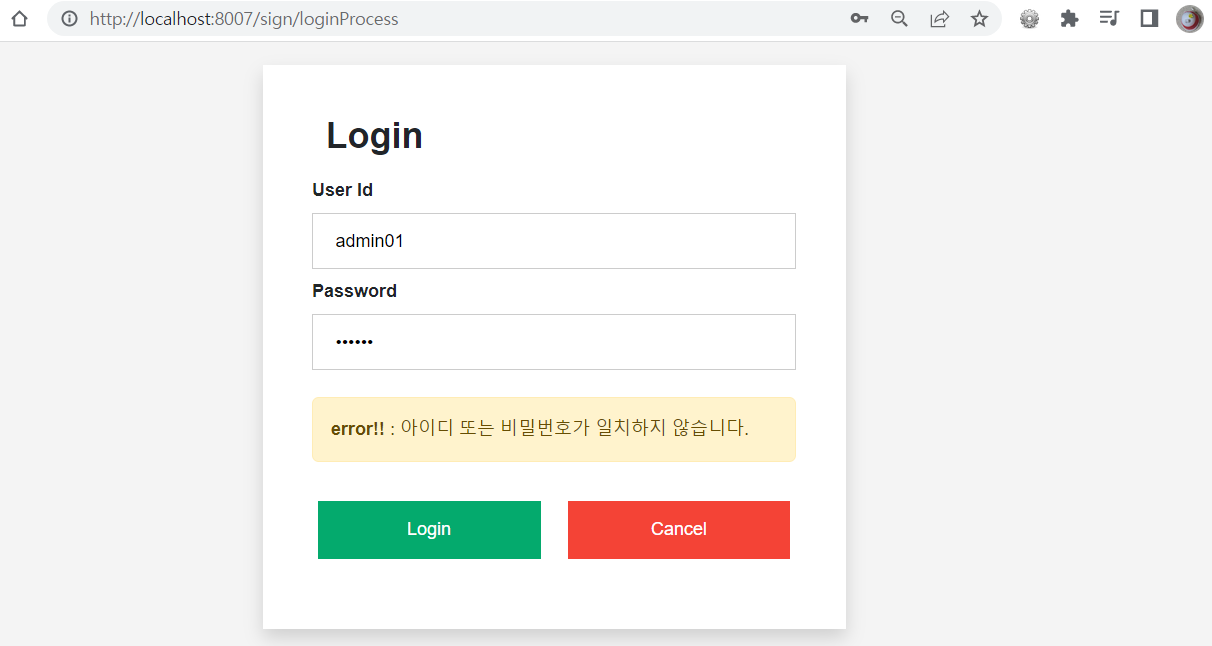
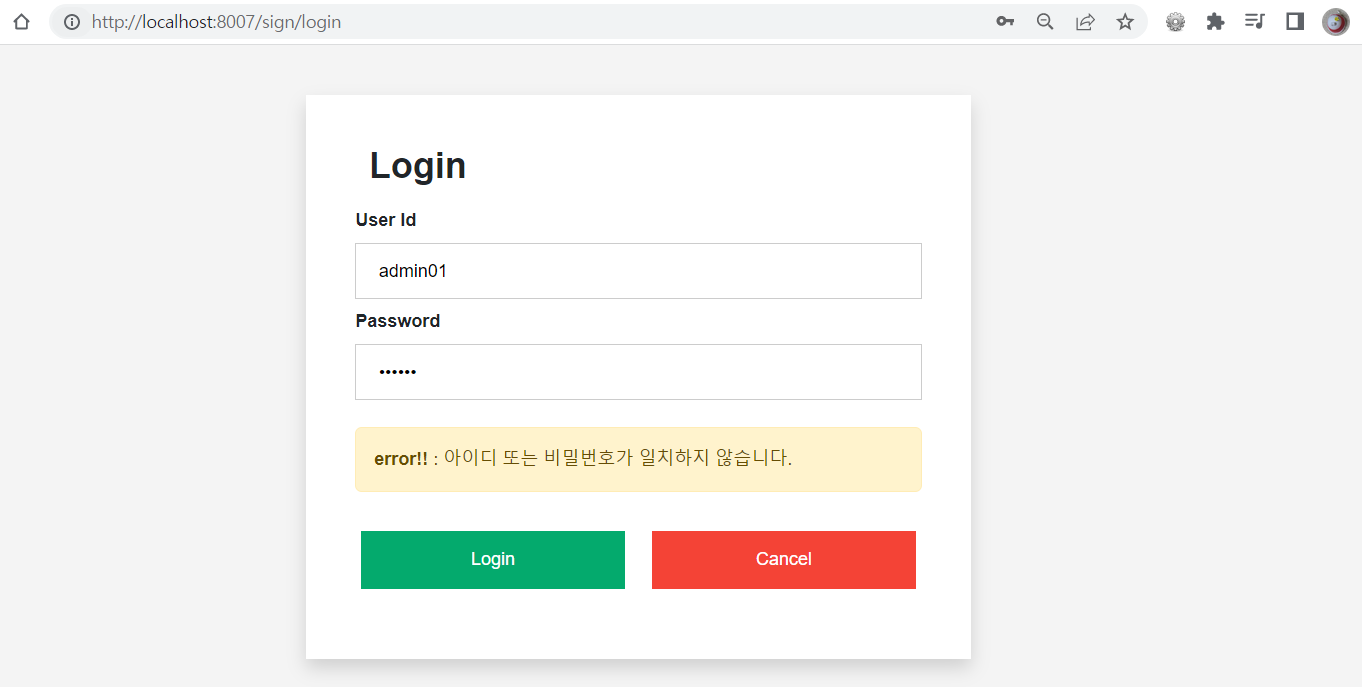
update springboot security

diff --git a/webdocs/_posts/spring/2023-04-02-springboot-security.md b/webdocs/_posts/spring/2023-04-02-springboot-security.md
@@ -161,7 +161,6 @@ public class HttpSecurityConfig {
         springboot에서 기본 제공하는 페이지를 사용할 경우 설정하지 않아도 됨.
       */      
         .loginPage("/sign/login")
-        .loginProcessingUrl("/sign/loginProcess")  
         .usernameParameter("id")
         .passwordParameter("pwd")
         .successHandler(successHandler())
@@ -465,11 +464,7 @@ public class SignController {
       logger.debug("--------------------------------------------------\n\n");
               
       return "/html/sign/login"; 
-  }
-  @RequestMapping(value = "/sign/loginProcess")
-  public void loginProcess(Principal principal, HttpServletRequest request) { 
-
-  }      
+  }     
 }
 ```
 
@@ -477,7 +472,7 @@ public class SignController {
 
 @ /sign/login.html
 ```html
-<form action="/sign/loginProcess" method="post">
+<form action="/sign/login" method="post">
 <input type="hidden" th:name="_csrf" th:value="${_csrf.token}" />
 
 <div class="shadow p-4 m-4 bg-white">
